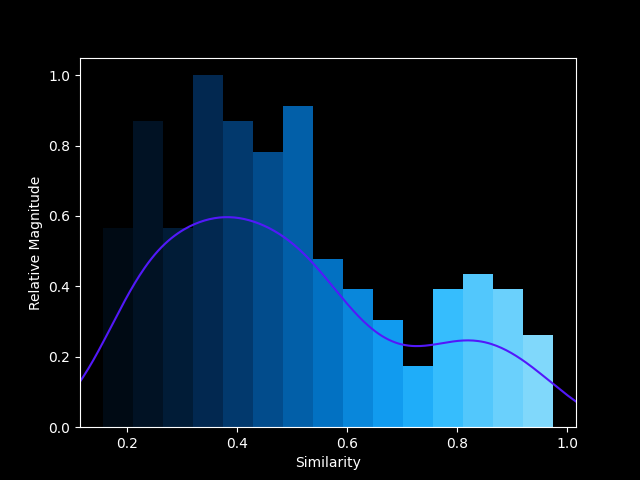
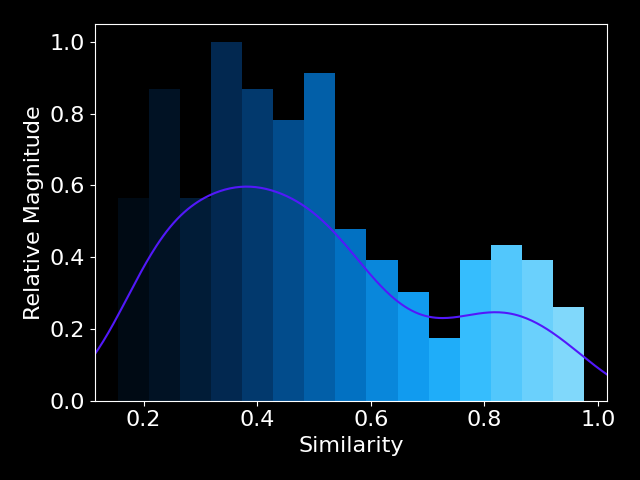
Got timing data

diff --git a/common/map.py b/common/map.py
@@ -2,6 +2,8 @@ from curses import raw
 import handler
 import pickle
 import matplotlib.pyplot as plt
+from matplotlib.pyplot import figure
+
 import cv2
 import numpy as np
 import scipy.stats as st
@@ -18,6 +20,8 @@ if __name__ == "__main__":
 
     # handler.showVideo(skip=10)
 
+
+
     simsFile = open('sims', 'rb')
     rawsims = pickle.load(simsFile)
 
@@ -30,6 +34,9 @@ if __name__ == "__main__":
 
 
     # plt.hist(sims, bins=50, cmap=)
+    # figure(figsize=(7, 5.5))
+    plt.rcParams.update({'font.size': 16})
+    
 
     scale = 1/23
     n, bins, patches = plt.hist(sims, bins=15, weights=scale*np.ones_like(sims))
@@ -53,6 +60,7 @@ if __name__ == "__main__":
 
     plt.ylabel('Relative Magnitude')
     plt.xlabel('Similarity')
+    plt.tight_layout()
     plt.savefig('sim.png')
 
     img = cv2.imread('sim.png', cv2.IMREAD_COLOR)
